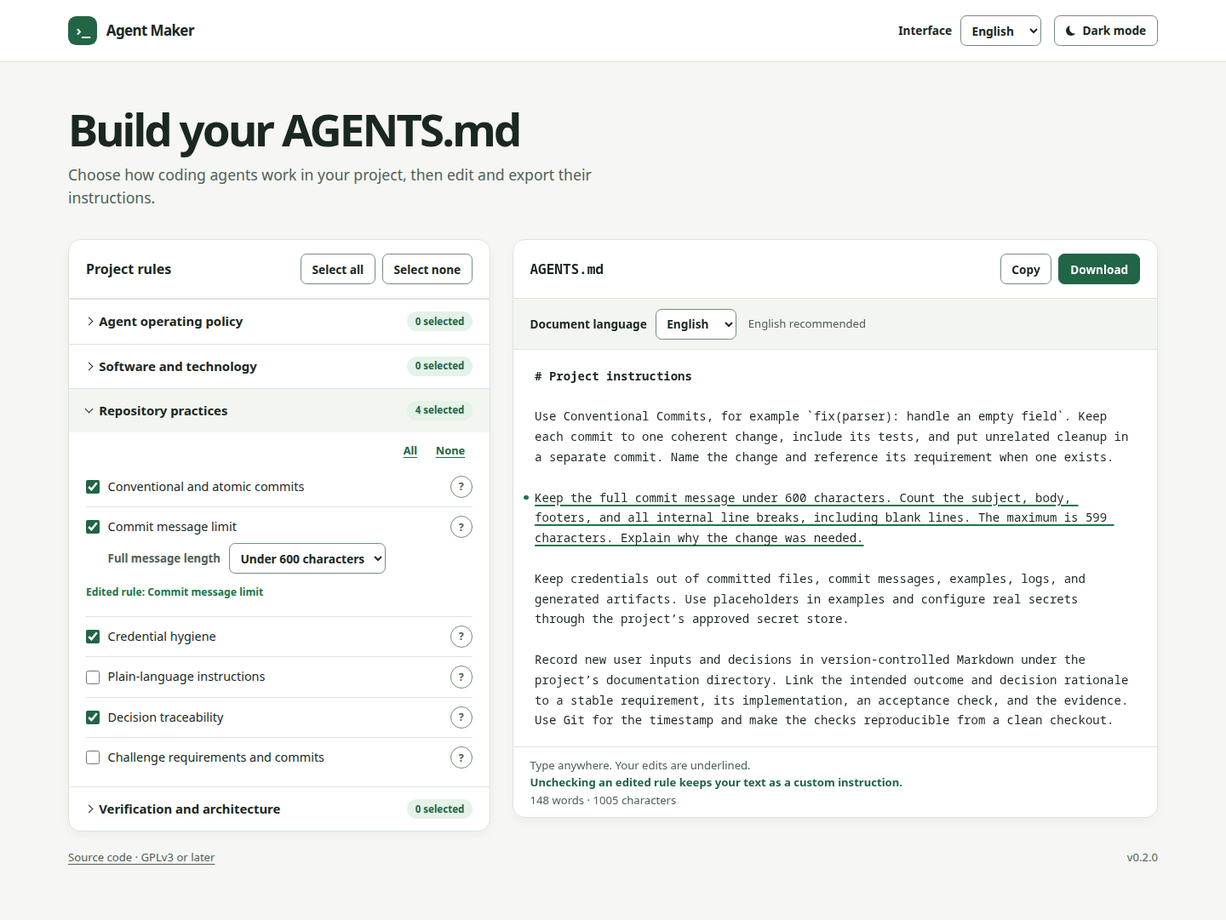
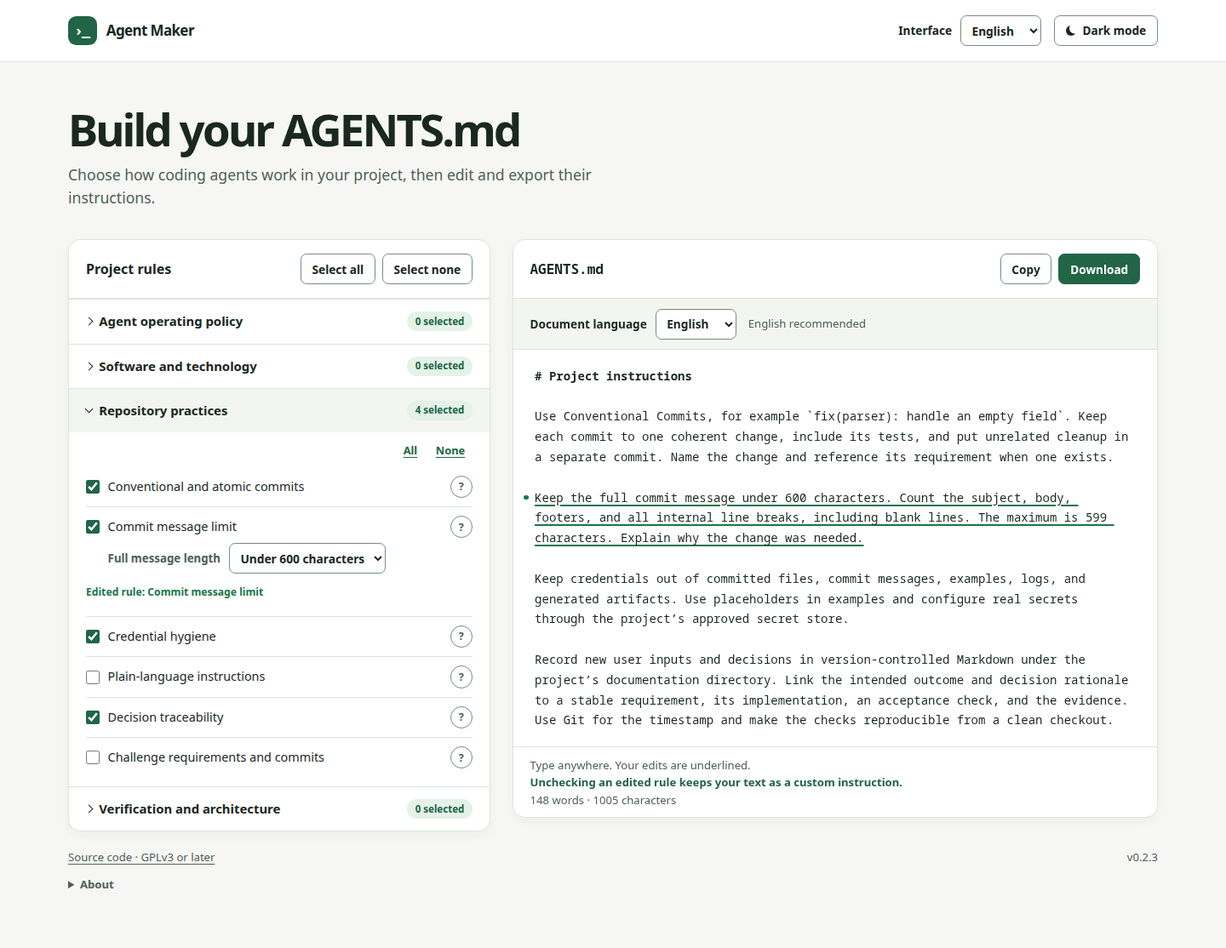
feat(about): name the author, project and bundled libraries
Requirements: C21

diff --git a/test/app.test.ts b/test/app.test.ts
@@ -301,6 +301,32 @@ describe("workspace", () => {
     );
   });
 
+  it("names the author, the project, and the bundled libraries in About", () => {
+    const about = element("about");
+    expect(about.querySelector("summary")!.textContent).toBe("About");
+    const mail = about.querySelector<HTMLAnchorElement>('a[href^="mailto:"]')!;
+    expect(mail.href).toBe("mailto:mail@marcelpetrick.it");
+    expect(about.textContent).toContain("Marcel Petrick");
+    expect(
+      about.querySelector<HTMLAnchorElement>(
+        'a[href="https://github.com/marcelpetrick/AgentsTemplateMaker"]',
+      ),
+    ).not.toBeNull();
+    const libraries = [...about.querySelectorAll("#about-libraries li")].map(
+      (item) => item.textContent,
+    );
+    expect(libraries).toEqual([
+      "@codemirror/commands 6.11.2 · MIT",
+      "@codemirror/state 6.7.6 · MIT",
+      "@codemirror/view 6.44.0 · MIT",
+    ]);
+    select("ui-language", "de");
+    expect(about.querySelector("summary")!.textContent).toBe("Über");
+    expect(element("about-libraries-heading").textContent).toBe(
+      "Verwendete Bibliotheken",
+    );
+  });
+
   it("selects all rules at once and clears them while keeping edited text", () => {
     edit(paragraph("credentials"), " eigene ");
     element("select-all").click();

diff --git a/index.html b/index.html
@@ -128,6 +128,31 @@
           data-copy="sourceLicense"
           >Source code · GPLv3 or later</a
         >
+        <details id="about" class="about">
+          <summary data-copy="about">About</summary>
+          <p>
+            <span data-copy="aboutBy">Made by</span> Marcel Petrick ·
+            <a href="mailto:mail@marcelpetrick.it">mail@marcelpetrick.it</a>
+          </p>
+          <p>
+            <span data-copy="aboutProject">Project</span>:
+            <a href="https://github.com/marcelpetrick/AgentsTemplateMaker"
+              >github.com/marcelpetrick/AgentsTemplateMaker</a
+            >
+          </p>
+          <h2 id="about-libraries-heading" data-copy="aboutLibraries">
+            Libraries used
+          </h2>
+          <ul
+            id="about-libraries"
+            aria-labelledby="about-libraries-heading"
+          ></ul>
+          <p>
+            <a href="dependency-licenses.md" data-copy="aboutNotices"
+              >All bundled licenses</a
+            >
+          </p>
+        </details>
         <span id="version"></span>
       </footer>
     </main>

diff --git a/src/strings.ts b/src/strings.ts
@@ -24,6 +24,11 @@ export const strings = {
         "These rules contain your edits. Applying the change keeps that text as written.",
       cancel: "Cancel",
       apply: "Apply change",
+      about: "About",
+      aboutBy: "Made by",
+      aboutProject: "Project",
+      aboutLibraries: "Libraries used",
+      aboutNotices: "All bundled licenses",
     },
     keptRule: (label: string) =>
       `Kept your edited text for “${label}” as custom text.`,
@@ -73,6 +78,11 @@ export const strings = {
         "Du hast diese Regeln bearbeitet. Wenn du die Änderung anwendest, bleibt dein Text erhalten.",
       cancel: "Abbrechen",
       apply: "Änderung anwenden",
+      about: "Über",
+      aboutBy: "Erstellt von",
+      aboutProject: "Projekt",
+      aboutLibraries: "Verwendete Bibliotheken",
+      aboutNotices: "Alle enthaltenen Lizenzen",
     },
     keptRule: (label: string) =>
       `Dein bearbeiteter Text für „${label}“ bleibt als eigene Anweisung erhalten.`,

diff --git a/src/app.ts b/src/app.ts
@@ -11,6 +11,7 @@ import {
 } from "./catalog";
 import { authoredRanges, createDraft, replaceRule } from "./draft";
 import { openEditor } from "./editor";
+import { libraries } from "./about";
 import { countText } from "./stats";
 import { strings } from "./strings";
 import { version } from "./version";
@@ -502,6 +503,8 @@ export function mount() {
     setMessage("downloaded");
   });
   element("version").textContent = `v${version}`;
+  for (const library of libraries())
+    append(element("about-libraries"), "li").textContent = library;
   renderLanguage();
   return editor.view;
 }

diff --git a/src/about.ts b/src/about.ts
@@ -1,0 +1,17 @@
+// SPDX-FileCopyrightText: 2026 Marcel Petrick
+// SPDX-License-Identifier: GPL-3.0-or-later
+import { dependencies } from "../package.json";
+
+const licenses: Readonly<Record<string, string>> = {
+  "@codemirror/commands": "MIT",
+  "@codemirror/state": "MIT",
+  "@codemirror/view": "MIT",
+};
+
+export function libraries(
+  installed: Readonly<Record<string, string>> = dependencies,
+): readonly string[] {
+  return Object.entries(installed).map(
+    ([name, version]) => `${name} ${version} · ${licenses[name] ?? "?"}`,
+  );
+}

diff --git a/test/about.test.ts b/test/about.test.ts
@@ -1,0 +1,10 @@
+// SPDX-FileCopyrightText: 2026 Marcel Petrick
+// SPDX-License-Identifier: GPL-3.0-or-later
+import { describe, expect, it } from "vitest";
+import { libraries } from "../src/about";
+
+describe("libraries", () => {
+  it("marks a dependency without a recorded license so it gets noticed", () => {
+    expect(libraries({ "left-pad": "1.3.0" })).toEqual(["left-pad 1.3.0 · ?"]);
+  });
+});

diff --git a/src/style.css b/src/style.css
@@ -673,6 +673,27 @@ dialog .document-actions {
   font-size: 0.82rem;
 }
 
+.about {
+  flex: 1 1 100%;
+  order: 1;
+}
+
+.about summary {
+  width: fit-content;
+  cursor: pointer;
+  font-weight: 650;
+}
+
+.about h2 {
+  margin: 0.6rem 0 0.2rem;
+  font-size: 0.82rem;
+}
+
+.about p,
+.about ul {
+  margin: 0.35rem 0;
+}
+
 .site-footer a {
   color: inherit;
   text-underline-offset: 0.2em;

diff --git a/docs/decisions.md b/docs/decisions.md
@@ -1,21 +1,22 @@
 # Implementation decisions
 
-| Decision                                                                                                                                                                                                                                                                      | Rationale and requirements                                                                                                                                                          | Evidence to collect                                                                                            |
-| ----------------------------------------------------------------------------------------------------------------------------------------------------------------------------------------------------------------------------------------------------------------------------- | ----------------------------------------------------------------------------------------------------------------------------------------------------------------------------------- | -------------------------------------------------------------------------------------------------------------- |
-| Publish a static browser app from `main` under the repository's GitHub Pages path.                                                                                                                                                                                            | F01, F06 and I14 need clean-clone and export evidence. A static app can compose and export without a backend.                                                                       | Built subpath browser tests, GitHub Actions, live site smoke test.                                             |
-| Start with English interface and output, light theme, and commits, 300-character messages, credential hygiene, and traceability selected.                                                                                                                                     | F01, F07, F08, C06–C09 and C11. The vision leaves the limit open. The smaller strict bound is the default and 600 is selectable.                                                    | Default assertions and browser walkthrough.                                                                    |
-| Track generated contributions by positional identity. Treat direct edits as authoritative. Preserve edited text when settings, language, or selections change.                                                                                                                | F03–F06, F08 and F09. Text matching can remove an identical personal copy. A multi-rule cancellation should leave the editor untouched.                                             | Unit tests with identical paragraphs, disjoint edits, cancellation, and byte comparisons.                      |
-| Include SemVer and CalVer choices. Offer opt-in executable-line coverage with 99% prefilled.                                                                                                                                                                                  | C05 and C16. Project rules can choose their version scheme and exact coverage gate. This project's own gate is 95%.                                                                 | Inspect both policy variants and run thresholds through the pipeline.                                          |
-| Keep drafts in the open tab. Publish on GitHub Pages.                                                                                                                                                                                                                         | The requested workflow ends in copying or downloading the current text. The maintainer removed container distribution from scope.                                                   | Verify exported text and production asset paths.                                                               |
-| Defer the repository scan described in I12.                                                                                                                                                                                                                                   | The vision places scanning in a later phase after trying the form and describes a separate scope decision.                                                                          | Verify that adding a catalog entry needs no change to the editor.                                              |
-| Use automated Chromium, Firefox, and WebKit production smoke and workflow tests.                                                                                                                                                                                              | F02, F06, F07, F08, and F10 depend on real browser behavior. Compare the declared targets with pipeline results.                                                                    | Browser report for all three targets and Chromium unit and integration coverage report.                        |
-| Offer Select all and Select none above the rule categories. Select none keeps edited rules as custom text and reports how many were kept.                                                                                                                                     | The maintainer asked for bulk selection on 2026-11-25. It extends F02 and follows the F05 rule for unchecking edited text.                                                          | [Integration test](../test/app.test.ts) for both actions, edited text, status and German labels.               |
-| Switch the document language with the interface language while the draft has no authored text. Leave it unchanged once the user has edited.                                                                                                                                   | The maintainer asked for this on 2026-11-25. It replaces the earlier fully independent switch for unedited drafts. Changing languages can never overwrite authored text (F05, F08). | [Integration test](../test/app.test.ts) switches both ways, then edits and switches again.                     |
-| Show the draft's word and character count below the editor. Count words with `Intl.Segmenter` and characters as user-perceived graphemes.                                                                                                                                     | The maintainer asked for this on 2026-11-25. Graphemes match what a reader sees, so an emoji or accented letter counts once. Markdown symbols are not words (F06).                  | [Unit tests](../test/stats.test.ts) and [integration test](../test/app.test.ts) in both languages.             |
-| Add per-category All and None buttons next to the global Select all and Select none.                                                                                                                                                                                          | The maintainer asked for group and global bulk selection on 2026-11-25. Both share one selection routine, so edited rules are always kept (F02, F05).                               | [Integration test](../test/app.test.ts) for one category, edited text, and accessible names in both languages. |
-| Add a multi-choice Languages and frameworks rule. It covers Shell, Python, C, C++, CMake, Qt, LVGL, TouchGFX, ESP-IDF, FreeRTOS, Zephyr, TypeScript, JavaScript, Rust, Go, Java, Kotlin, C#, and SQL, and it always allows a domain-specific language with a recorded reason. | The maintainer listed these on 2026-11-25. Catalog order fixes the output order, so the paragraph is stable whatever the click order (C04, F09).                                    | [Catalog](../test/catalog.test.ts) and [integration](../test/app.test.ts) tests.                               |
-| Add a Character set rule: Unicode-compliant UTF-8 code, or ASCII only.                                                                                                                                                                                                        | Maintainer request, 2026-11-25. Unicode counts and compares by grapheme; ASCII suits legacy and embedded toolchains.                                                                | [Catalog test](../test/catalog.test.ts).                                                                       |
-| Extend the review rule with a loop after each planning change and implementation iteration.                                                                                                                                                                                   | Maintainer request, 2026-11-25. The earlier text only reviewed requirements up front and each commit (C12).                                                                         | [Catalog test](../test/catalog.test.ts) in both languages.                                                     |
+| Decision                                                                                                                                                                                                                                                                      | Rationale and requirements                                                                                                                                                              | Evidence to collect                                                                                            |
+| ----------------------------------------------------------------------------------------------------------------------------------------------------------------------------------------------------------------------------------------------------------------------------- | --------------------------------------------------------------------------------------------------------------------------------------------------------------------------------------- | -------------------------------------------------------------------------------------------------------------- |
+| Publish a static browser app from `main` under the repository's GitHub Pages path.                                                                                                                                                                                            | F01, F06 and I14 need clean-clone and export evidence. A static app can compose and export without a backend.                                                                           | Built subpath browser tests, GitHub Actions, live site smoke test.                                             |
+| Start with English interface and output, light theme, and commits, 300-character messages, credential hygiene, and traceability selected.                                                                                                                                     | F01, F07, F08, C06–C09 and C11. The vision leaves the limit open. The smaller strict bound is the default and 600 is selectable.                                                        | Default assertions and browser walkthrough.                                                                    |
+| Track generated contributions by positional identity. Treat direct edits as authoritative. Preserve edited text when settings, language, or selections change.                                                                                                                | F03–F06, F08 and F09. Text matching can remove an identical personal copy. A multi-rule cancellation should leave the editor untouched.                                                 | Unit tests with identical paragraphs, disjoint edits, cancellation, and byte comparisons.                      |
+| Include SemVer and CalVer choices. Offer opt-in executable-line coverage with 99% prefilled.                                                                                                                                                                                  | C05 and C16. Project rules can choose their version scheme and exact coverage gate. This project's own gate is 95%.                                                                     | Inspect both policy variants and run thresholds through the pipeline.                                          |
+| Keep drafts in the open tab. Publish on GitHub Pages.                                                                                                                                                                                                                         | The requested workflow ends in copying or downloading the current text. The maintainer removed container distribution from scope.                                                       | Verify exported text and production asset paths.                                                               |
+| Defer the repository scan described in I12.                                                                                                                                                                                                                                   | The vision places scanning in a later phase after trying the form and describes a separate scope decision.                                                                              | Verify that adding a catalog entry needs no change to the editor.                                              |
+| Use automated Chromium, Firefox, and WebKit production smoke and workflow tests.                                                                                                                                                                                              | F02, F06, F07, F08, and F10 depend on real browser behavior. Compare the declared targets with pipeline results.                                                                        | Browser report for all three targets and Chromium unit and integration coverage report.                        |
+| Offer Select all and Select none above the rule categories. Select none keeps edited rules as custom text and reports how many were kept.                                                                                                                                     | The maintainer asked for bulk selection on 2026-11-25. It extends F02 and follows the F05 rule for unchecking edited text.                                                              | [Integration test](../test/app.test.ts) for both actions, edited text, status and German labels.               |
+| Switch the document language with the interface language while the draft has no authored text. Leave it unchanged once the user has edited.                                                                                                                                   | The maintainer asked for this on 2026-11-25. It replaces the earlier fully independent switch for unedited drafts. Changing languages can never overwrite authored text (F05, F08).     | [Integration test](../test/app.test.ts) switches both ways, then edits and switches again.                     |
+| Show the draft's word and character count below the editor. Count words with `Intl.Segmenter` and characters as user-perceived graphemes.                                                                                                                                     | The maintainer asked for this on 2026-11-25. Graphemes match what a reader sees, so an emoji or accented letter counts once. Markdown symbols are not words (F06).                      | [Unit tests](../test/stats.test.ts) and [integration test](../test/app.test.ts) in both languages.             |
+| Add per-category All and None buttons next to the global Select all and Select none.                                                                                                                                                                                          | The maintainer asked for group and global bulk selection on 2026-11-25. Both share one selection routine, so edited rules are always kept (F02, F05).                                   | [Integration test](../test/app.test.ts) for one category, edited text, and accessible names in both languages. |
+| Add a multi-choice Languages and frameworks rule. It covers Shell, Python, C, C++, CMake, Qt, LVGL, TouchGFX, ESP-IDF, FreeRTOS, Zephyr, TypeScript, JavaScript, Rust, Go, Java, Kotlin, C#, and SQL, and it always allows a domain-specific language with a recorded reason. | The maintainer listed these on 2026-11-25. Catalog order fixes the output order, so the paragraph is stable whatever the click order (C04, F09).                                        | [Catalog](../test/catalog.test.ts) and [integration](../test/app.test.ts) tests.                               |
+| Add a Character set rule: Unicode-compliant UTF-8 code, or ASCII only.                                                                                                                                                                                                        | Maintainer request, 2026-11-25. Unicode counts and compares by grapheme; ASCII suits legacy and embedded toolchains.                                                                    | [Catalog test](../test/catalog.test.ts).                                                                       |
+| Extend the review rule with a loop after each planning change and implementation iteration.                                                                                                                                                                                   | Maintainer request, 2026-11-25. The earlier text only reviewed requirements up front and each commit (C12).                                                                             | [Catalog test](../test/catalog.test.ts) in both languages.                                                     |
+| Add an About section naming the author with contact address, the project link, and the runtime libraries with versions and licenses.                                                                                                                                          | The maintainer asked for this on 2026-11-25 and supplied the address for publication. Versions come from `package.json`, so the list stays current; an unknown license shows `?` (C21). | [Unit](../test/about.test.ts) and [integration](../test/app.test.ts) tests.                                    |
 
 ## Delivery decisions
 

diff --git a/README.md b/README.md
@@ -16,7 +16,7 @@ instructions intact. The draft lives in your open browser tab.
 
 **[Open Agent Maker on GitHub Pages](https://marcelpetrick.github.io/AgentsTemplateMaker/)**
 
-**Author** Marcel Petrick · **License** [GPL v3 or later](LICENSE) · Developed with AI assistance.
+**Author** Marcel Petrick ([mail@marcelpetrick.it](mailto:mail@marcelpetrick.it)) · **Runtime library** [CodeMirror 6](https://codemirror.net/) (MIT) · **License** [GPL v3 or later](LICENSE) · Developed with AI assistance.
 
 ![Agent Maker with repository rules on the left, the Markdown editor on the right, and a project-specific edit underlined in green](docs/interface.png)
 
@@ -27,14 +27,23 @@ instructions intact. The draft lives in your open browser tab.
 2. Pick your project rules. Conventional atomic commits, a strict 300-character
    commit-message limit, credential hygiene, and decision traceability are
    selected by default. The message limit also offers 600 characters.
+   **Select all** and **Select none** act on every rule; **All** and **None**
+   inside a category act on that category only. Languages and frameworks
+   offer common choices such as Python, C++, Qt, LVGL, TouchGFX, ESP-IDF,
+   FreeRTOS, TypeScript, and Rust. The character set rule chooses Unicode or
+   ASCII only.
 3. Type or paste anywhere in the Markdown editor. Your edits are underlined.
    Unchecking an edited rule keeps that text as a custom instruction. A
    setting or document language change that affects edited rules lists the
    affected paragraphs and gives you a chance to cancel.
-4. Choose English or German separately for the interface and the document.
-   English is recommended for repository instructions. The light and dark
+4. Choose English or German for the interface. While you have not edited the
+   draft, the document follows that language. After an edit, the document
+   language changes only when you pick it yourself. English is recommended
+   for repository instructions. The light and dark
    theme controls preserve the current draft and editor selection.
-5. **Copy** or **Download** the current Markdown, then place it in your project
+5. The footer below the editor shows the draft's word and character count.
+   **About** names the author, the project, and the bundled libraries.
+6. **Copy** or **Download** the current Markdown, then place it in your project
    as `AGENTS.md`. Export before closing the tab to keep a copy.
 
 ## Local development
